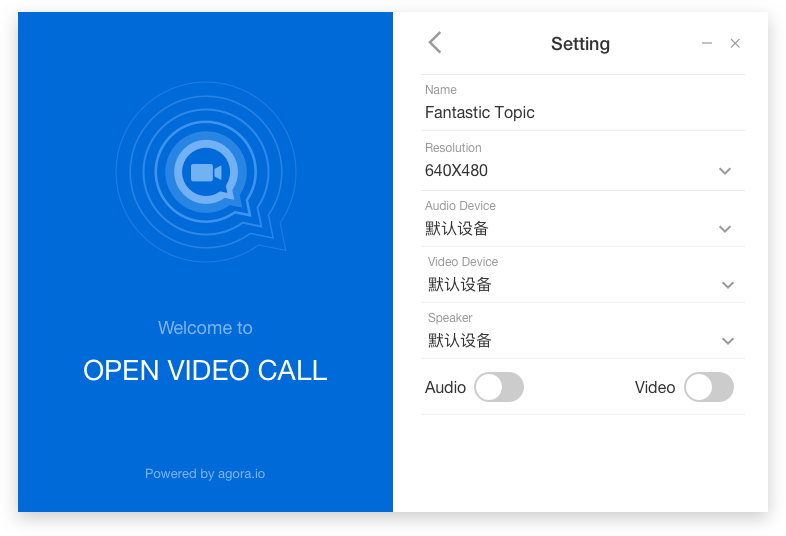
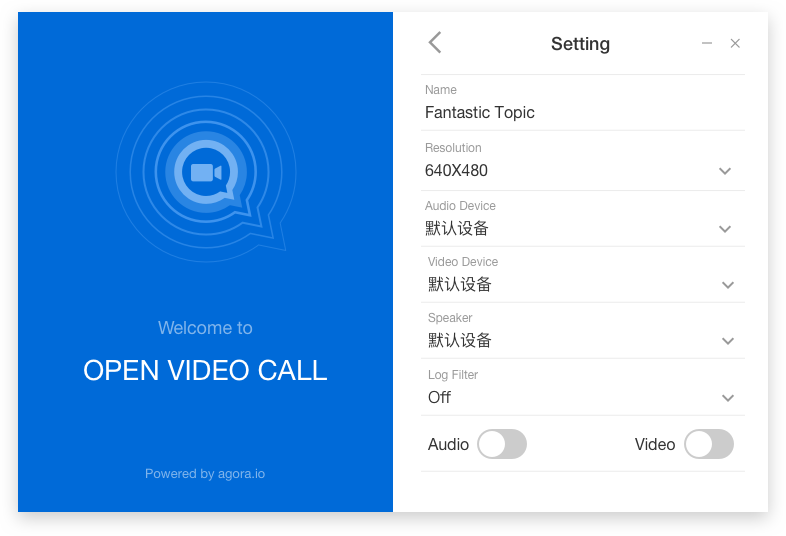
adc-1837

diff --git a/Group-Video/OpenVideoCall-Windows/avdevice.cpp b/Group-Video/OpenVideoCall-Windows/avdevice.cpp
@@ -1,4 +1,4 @@
-#include "avdevice.h"
+#include "avdevice.h"
 #include "ui_avdevice.h"
 #include "agoraobject.h"
 #include "agorawindowmanager.h"
@@ -92,6 +92,17 @@ void AVDevice::initCtrl()
     for(qSSMap::iterator it = devicelist.begin(); devicelist.end() != it; it++) {
         ui->cb_video->addItem(it.key());
     }
+
+    //log filter
+    ui->cb_log->clear();
+    ui->cb_log->addItem("OFF");
+    ui->cb_log->addItem("DEBUG");
+    ui->cb_log->addItem("INFO");
+    ui->cb_log->addItem("WARN");
+    ui->cb_log->addItem("ERROR");
+    ui->cb_log->addItem("CRITICAL");
+    ui->cb_log->addItem("MASK");
+    ui->cb_log->setCurrentIndex(2);
 }
 
 
@@ -193,4 +204,21 @@ void AVDevice::on_cb_solution_activated(const QString &arg1)
     int nWidth,nHeight = 0;
     sscanf(arg1.toUtf8().data(),"%dx%d", &nWidth, &nHeight);
     CAgoraObject::getInstance()->setVideoProfile(nWidth, nHeight);
+}
+
+void AVDevice::on_cb_log_activated(int index)
+{
+    LOG_FILTER_TYPE	logFilterType = LOG_FILTER_OFF;
+    switch (index)
+    {
+    case 0:logFilterType = LOG_FILTER_OFF; break;
+    case 1:logFilterType = LOG_FILTER_DEBUG;break;
+    case 2:logFilterType = LOG_FILTER_INFO; break;
+    case 3:logFilterType = LOG_FILTER_WARN; break;
+    case 4:logFilterType = LOG_FILTER_ERROR; break;
+    case 5:logFilterType = LOG_FILTER_CRITICAL; break;
+    case 6:logFilterType = LOG_FILTER_MASK; break;
+    default:break;
+    }
+   CAgoraObject::getInstance()->SetLogFilter(logFilterType,L"");
 }

diff --git a/Group-Video/OpenVideoCall-Windows/agoraobject.cpp b/Group-Video/OpenVideoCall-Windows/agoraobject.cpp
@@ -427,9 +427,29 @@ BOOL CAgoraObject::MuteLocalAudio(BOOL bMute)
 BOOL CAgoraObject::SetEncryptionMode(const char* secret,const char* secretMode)
 {
     int nRet = 0;
-    if(secret != NULL && strlen(secret) > 0 && secretMode != NULL) {
+    if(secret != nullptr && strlen(secret) > 0 && secretMode != nullptr) {
         nRet = m_rtcEngine->setEncryptionSecret(secret);
         nRet = m_rtcEngine->setEncryptionMode(secretMode);
+    }
+
+    return nRet == 0 ? TRUE : FALSE;
+}
+
+BOOL CAgoraObject::SetLogFilter(LOG_FILTER_TYPE logFilterType, LPCTSTR lpLogPath)
+{
+    int nRet = 0;
+    RtcEngineParameters rep(*m_rtcEngine);
+
+    nRet = rep.setLogFilter(logFilterType);
+
+    if (lpLogPath != Q_NULLPTR) {
+#ifdef UNICODE
+        CHAR szFilePath[MAX_PATH];
+        ::WideCharToMultiByte(CP_ACP, 0, lpLogPath, -1, szFilePath, MAX_PATH, nullptr, nullptr);
+        nRet |= rep.setLogFile(szFilePath);
+#else
+        nRet |= rep.setLogFile(lpLogPath);
+#endif
     }
 
     return nRet == 0 ? TRUE : FALSE;

diff --git a/Group-Video/OpenVideoCall-Windows/agoraobject.h b/Group-Video/OpenVideoCall-Windows/agoraobject.h
@@ -15,6 +15,8 @@ extern CAgoraConfig gAgoraConfig;
 #include <QVariant>
 #include <IAgoraRtcEngine.h>
 #include <IAgoraMediaEngine.h>
+#include <AgoraBase.h>
+using namespace agora;
 using namespace agora::rtc;
 
 typedef QMap<QString,QString> qSSMap;
@@ -54,6 +56,7 @@ public:
     BOOL setRecordingIndex(int nIndex);
     BOOL setPlayoutIndex(int nIndex);
     BOOL setVideoIndex(int nIndex);
+    BOOL SetLogFilter(LOG_FILTER_TYPE logFilterType, LPCTSTR lpLogPath);
 
 signals:
     void sender_videoStopped();

diff --git a/Group-Video/OpenVideoCall-Windows/agoraconfig.cpp b/Group-Video/OpenVideoCall-Windows/agoraconfig.cpp
@@ -1,9 +1,8 @@
-#include "stdafx.h"
-#include "agoraconfig.h"
+#include "agoraconfig.h"
 
 CAgoraConfig::CAgoraConfig()
 {
-   m_spConfig = std::make_shared<QSettings>("AgoraConfigOpenLive.ini",QSettings::IniFormat);
+   m_spConfig = std::make_shared<QSettings>("AgoraConfigOpenVideoCall.ini",QSettings::IniFormat);
 }
 
 void CAgoraConfig::setAppId(const QString &str)

diff --git a/Group-Video/OpenVideoCall-Windows/avdevice.h b/Group-Video/OpenVideoCall-Windows/avdevice.h
@@ -1,4 +1,4 @@
-#ifndef AVDEVICE_H
+#ifndef AVDEVICE_H
 #define AVDEVICE_H
 
 #include <qevent.h>
@@ -39,6 +39,8 @@ private slots:
     void on_btn_min_clicked();
 
     void on_cb_solution_activated(const QString &arg1);
+
+    void on_cb_log_activated(int index);
 
 private:
     const int lnGapWidth = 18;
